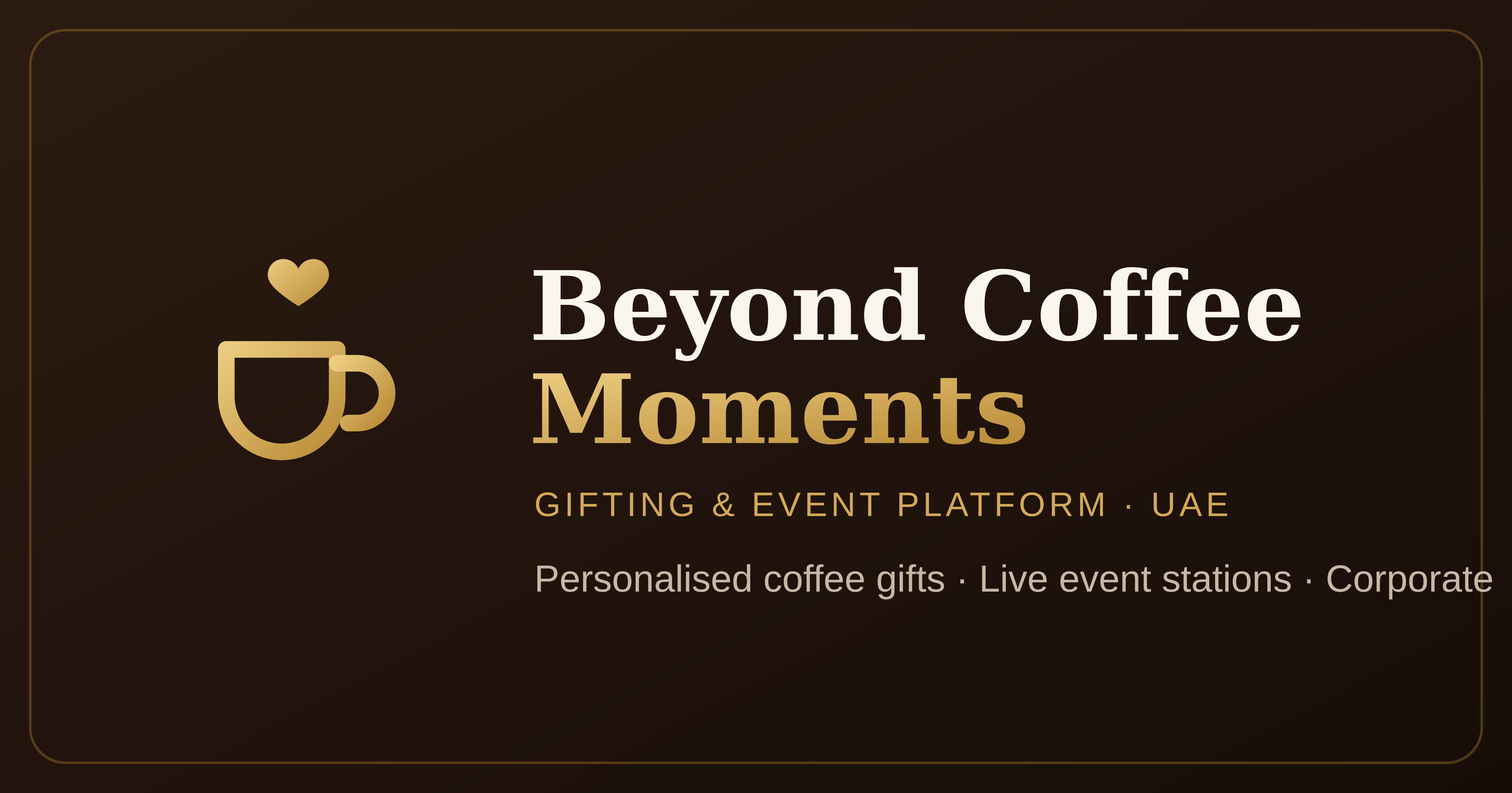
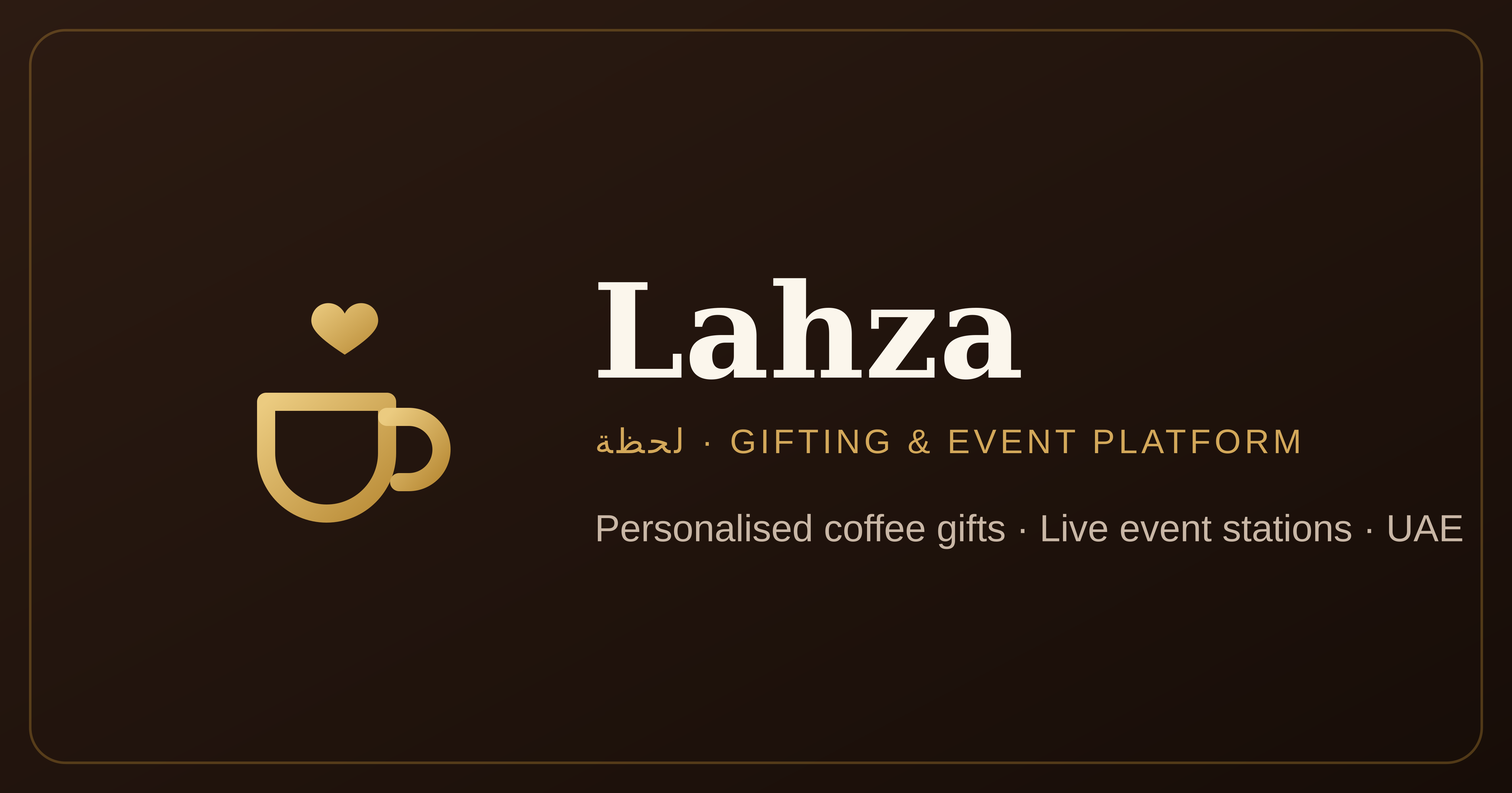
rebrand: Lahza (لحظة) + resilient customisation draft
Rename the storefront from "Beyond Coffee Moments" to a distinctive, ownable
brand — Lahza (لحظة, "a moment") — across UI, PWA manifest, icons/OG image,
SEO/AIO metadata, JSON-LD, sitemap/robots/llms.txt and docs. The legal entity
(Beyond Connect General Trading L.L.C) is unchanged. Arabic brand renders as
«لحظة».

Real-value improvement (no decoration): persist the in-progress customisation
to sessionStorage so an accidental refresh never wipes the customer's design.
Per-tab and ephemeral — the photo stays on-device, consistent with the privacy
stance in docs/THREAT_MODEL.md.

Isolated follow-up: branch restarted from the latest main (PR #18 already
merged), so this is a fresh, separate change with no branch overlap.

Verified: tsc --noEmit clean; vite build clean; built output carries the new
brand and none of the old one.

Claude-Session: https://claude.ai/code/session_017F7q4VrpryvpxMfgoKXwHo

diff --git a/src/i18n/ar.ts b/src/i18n/ar.ts
@@ -24,7 +24,7 @@ export const ar: Dict = {
   },
 
   common: {
-    brandName: "Beyond Coffee Moments",
+    brandName: "لحظة",
     brandSub: "منصّة الهدايا والفعاليات",
     back: "رجوع",
     backHome: "العودة للرئيسية",
@@ -49,7 +49,7 @@ export const ar: Dict = {
   },
 
   hero: {
-    badge: "Beyond Coffee Moments",
+    badge: "لحظة",
     titleA: "حوّل كل فنجان قهوة إلى",
     titleHighlight: "لحظة خاصة",
     subtitle:
@@ -387,9 +387,9 @@ export const ar: Dict = {
     privacy: {
       title: "سياسة الخصوصية",
       intro:
-        "توضّح هذه السياسة كيف تجمع Beyond Connect General Trading L.L.C (\"Beyond Coffee Moments\"، \"نحن\") بياناتك الشخصية وتستخدمها وتحميها وفق قانون حماية البيانات الشخصية الإماراتي (المرسوم بقانون اتحادي رقم ٤٥ لسنة ٢٠٢١).",
+        "توضّح هذه السياسة كيف تجمع Beyond Connect General Trading L.L.C (\"Lahza\"، \"نحن\") بياناتك الشخصية وتستخدمها وتحميها وفق قانون حماية البيانات الشخصية الإماراتي (المرسوم بقانون اتحادي رقم ٤٥ لسنة ٢٠٢١).",
       sections: [
-        { h: "من نحن", b: "Beyond Connect General Trading L.L.C، المرخّصة من دائرة الاقتصاد والسياحة بدبي، هي المتحكّم بالبيانات. تواصل معنا على care@beyondcoffeemoments.ae." },
+        { h: "من نحن", b: "Beyond Connect General Trading L.L.C، المرخّصة من دائرة الاقتصاد والسياحة بدبي، هي المتحكّم بالبيانات. تواصل معنا على care@lahza.ae." },
         { h: "ما الذي نجمعه", b: "بيانات التواصل والتوصيل ومعلومات الطلب والصور المرفوعة، وبيانات الشركة لعملاء الشركات. قد تُظهر الصور التي ترفعها أشخاصاً يمكن التعرّف عليهم." },
         { h: "كيف نستخدم بياناتك", b: "لتنفيذ طلبك وتوصيله، وتقديم الدعم، وإعداد عروض الأسعار والفواتير، والوفاء بالتزاماتنا القانونية والضريبية. نحن لا نبيع بياناتك." },
         { h: "الموافقة على الصور ومعالجتها", b: "نعالج الصور المرفوعة فقط لتنفيذ طلبك، بناءً على موافقتك الصريحة وتنفيذ العقد. وإذا استخدمنا الذكاء الاصطناعي لتحسين صورة أو مراجعتها، فهذه معالجة آلية لتجهيز منتجك، مع مراجعة بشرية لأي حالة حدّية." },
@@ -397,13 +397,13 @@ export const ar: Dict = {
         { h: "المشاركة", b: "نشارك البيانات فقط مع مزوّدي الخدمة اللازمين لتنفيذ طلبك، الاستضافة السحابية وشركاء الطباعة وشركات التوصيل، بموجب التزامات سرّية، ومع الجهات الرسمية عند الاقتضاء قانوناً." },
         { h: "النقل عبر الحدود", b: "عند معالجة البيانات خارج الإمارات، نطبّق ضمانات تعاقدية ونفضّل الاستضافة داخل المنطقة. وتُخزّن بيانات الفواتير داخل الإمارات." },
         { h: "الأطفال", b: "خدمتنا موجّهة للبالغين. وإذا تضمّنت الهدية صورة طفل، يقرّ الشخص البالغ الذي رفعها بأنه يملك السلطة الأبوية. ولا نعالج بيانات الأطفال لأغراض الإعلان عن علم." },
-        { h: "حقوقك", b: "يحق لك الوصول إلى بياناتك وتصحيحها وحذفها وتقييدها ونقلها والاعتراض على معالجتها. راسلنا على care@beyondcoffeemoments.ae وسنستجيب فوراً." },
+        { h: "حقوقك", b: "يحق لك الوصول إلى بياناتك وتصحيحها وحذفها وتقييدها ونقلها والاعتراض على معالجتها. راسلنا على care@lahza.ae وسنستجيب فوراً." },
       ],
     },
     terms: {
       title: "الشروط والأحكام",
       intro:
-        "تنظّم هذه الشروط استخدامك لـ Beyond Coffee Moments، التي تديرها Beyond Connect General Trading L.L.C، وشراءك لمنتجاتنا وخدماتنا في الإمارات.",
+        "تنظّم هذه الشروط استخدامك لـ Lahza، التي تديرها Beyond Connect General Trading L.L.C، وشراءك لمنتجاتنا وخدماتنا في الإمارات.",
       sections: [
         { h: "هوية البائع", b: "Beyond Connect General Trading L.L.C، مرخّصة من دائرة الاقتصاد والسياحة بدبي (يُعرض رقم الرخصة والرقم الضريبي عند الدفع وعلى الفواتير)." },
         { h: "الطلبات والأسعار", b: "تُعرض أسعار الأفراد شاملة ضريبة ٥٪ والتوصيل القياسي. ويظهر المبلغ الإجمالي قبل الدفع. وتُعرض أسعار الشركات والفعاليات بدون ضريبة، وتُضاف في الفاتورة الضريبية." },
@@ -502,7 +502,7 @@ export const ar: Dict = {
     iosStep1: "اضغط زر المشاركة",
     iosStep2: "اختر «أضف إلى الشاشة الرئيسية»",
     bannerTitle: "احصل على التطبيق",
-    bannerText: "ثبّت تطبيق Beyond Coffee Moments لتجربة أسرع وبملء الشاشة.",
+    bannerText: "ثبّت تطبيق Lahza لتجربة أسرع وبملء الشاشة.",
   },
 
   announce: {

diff --git a/index.html b/index.html
@@ -6,7 +6,7 @@
     <meta name="color-scheme" content="light" />
     <meta name="theme-color" content="#2A1B12" />
 
-    <title>Beyond Coffee Moments | Personalised Coffee Gifts & Event Stations in the UAE</title>
+    <title>Lahza | Personalised Coffee Gifts & Event Stations in the UAE</title>
     <meta
       name="description"
       content="Turn your memories into luxury personalised coffee gift boxes, live event coffee stations and corporate appreciation campaigns. Bilingual (English/Arabic), same-day Dubai, delivery across all Emirates."
@@ -14,7 +14,7 @@
     <meta name="keywords" content="personalised coffee gifts UAE, coffee gift box Dubai, latte art printing, event coffee station, corporate gifting UAE, selfie coffee, هدايا قهوة, ركن قهوة" />
     <meta name="author" content="Beyond Connect General Trading L.L.C" />
     <meta name="robots" content="index, follow, max-image-preview:large" />
-    <link rel="canonical" href="https://beyondcoffeemoments.ae/" />
+    <link rel="canonical" href="https://lahza.ae/" />
 
     <!-- Icons + PWA -->
     <link rel="icon" href="/logo.svg" type="image/svg+xml" />
@@ -24,8 +24,8 @@
     <meta name="mobile-web-app-capable" content="yes" />
     <meta name="apple-mobile-web-app-capable" content="yes" />
     <meta name="apple-mobile-web-app-status-bar-style" content="black-translucent" />
-    <meta name="apple-mobile-web-app-title" content="Beyond Coffee" />
-    <meta name="application-name" content="Beyond Coffee Moments" />
+    <meta name="apple-mobile-web-app-title" content="Lahza" />
+    <meta name="application-name" content="Lahza" />
 
     <!-- Fonts: preconnect + display=swap protects LCP/CLS -->
     <link rel="preconnect" href="https://fonts.googleapis.com" />
@@ -37,19 +37,19 @@
 
     <!-- Open Graph / social -->
     <meta property="og:type" content="website" />
-    <meta property="og:site_name" content="Beyond Coffee Moments" />
-    <meta property="og:title" content="Beyond Coffee Moments | Personalised Coffee Gifts & Event Stations" />
+    <meta property="og:site_name" content="Lahza" />
+    <meta property="og:title" content="Lahza | Personalised Coffee Gifts & Event Stations" />
     <meta property="og:description" content="Luxury personalised coffee gifts, live event coffee stations and corporate campaigns. Delivered across the UAE." />
-    <meta property="og:url" content="https://beyondcoffeemoments.ae/" />
-    <meta property="og:image" content="https://beyondcoffeemoments.ae/og-image.png" />
+    <meta property="og:url" content="https://lahza.ae/" />
+    <meta property="og:image" content="https://lahza.ae/og-image.png" />
     <meta property="og:image:width" content="1200" />
     <meta property="og:image:height" content="630" />
     <meta property="og:locale" content="en_AE" />
     <meta property="og:locale:alternate" content="ar_AE" />
     <meta name="twitter:card" content="summary_large_image" />
-    <meta name="twitter:title" content="Beyond Coffee Moments | Personalised Coffee Gifts & Events · UAE" />
+    <meta name="twitter:title" content="Lahza | Personalised Coffee Gifts & Events · UAE" />
     <meta name="twitter:description" content="Luxury personalised coffee gifts, live event coffee stations and corporate campaigns across the UAE." />
-    <meta name="twitter:image" content="https://beyondcoffeemoments.ae/og-image.png" />
+    <meta name="twitter:image" content="https://lahza.ae/og-image.png" />
 
     <!-- Structured data (SEO + AI answer engines) -->
     <script type="application/ld+json">
@@ -58,32 +58,32 @@
       "@graph": [
         {
           "@type": "Organization",
-          "@id": "https://beyondcoffeemoments.ae/#org",
-          "name": "Beyond Coffee Moments",
+          "@id": "https://lahza.ae/#org",
+          "name": "Lahza",
           "legalName": "Beyond Connect General Trading L.L.C",
-          "url": "https://beyondcoffeemoments.ae/",
-          "logo": "https://beyondcoffeemoments.ae/icons/icon-512.png",
-          "email": "hello@beyondcoffeemoments.ae",
+          "url": "https://lahza.ae/",
+          "logo": "https://lahza.ae/icons/icon-512.png",
+          "email": "hello@lahza.ae",
           "areaServed": "AE",
-          "sameAs": ["https://instagram.com/beyondcoffeemoments"]
+          "sameAs": ["https://instagram.com/lahzacoffee"]
         },
         {
           "@type": "LocalBusiness",
-          "@id": "https://beyondcoffeemoments.ae/#business",
-          "name": "Beyond Coffee Moments",
-          "image": "https://beyondcoffeemoments.ae/og-image.png",
+          "@id": "https://lahza.ae/#business",
+          "name": "Lahza",
+          "image": "https://lahza.ae/og-image.png",
           "priceRange": "AED 89-7500",
           "address": { "@type": "PostalAddress", "addressLocality": "Dubai", "addressCountry": "AE" },
           "areaServed": ["Dubai", "Abu Dhabi", "Sharjah", "Ajman", "Ras Al Khaimah", "Fujairah", "Umm Al Quwain"],
-          "parentOrganization": { "@id": "https://beyondcoffeemoments.ae/#org" }
+          "parentOrganization": { "@id": "https://lahza.ae/#org" }
         },
         {
           "@type": "WebSite",
-          "@id": "https://beyondcoffeemoments.ae/#website",
-          "url": "https://beyondcoffeemoments.ae/",
-          "name": "Beyond Coffee Moments",
+          "@id": "https://lahza.ae/#website",
+          "url": "https://lahza.ae/",
+          "name": "Lahza",
           "inLanguage": ["en", "ar"],
-          "publisher": { "@id": "https://beyondcoffeemoments.ae/#org" }
+          "publisher": { "@id": "https://lahza.ae/#org" }
         }
       ]
     }

diff --git a/src/i18n/en.ts b/src/i18n/en.ts
@@ -22,7 +22,7 @@ export const en = {
   },
 
   common: {
-    brandName: "Beyond Coffee Moments",
+    brandName: "Lahza",
     brandSub: "Gifting & Event Platform",
     back: "Back",
     backHome: "Back to Home",
@@ -47,7 +47,7 @@ export const en = {
   },
 
   hero: {
-    badge: "Beyond Coffee Moments",
+    badge: "Lahza",
     titleA: "Turn Every Coffee into a",
     titleHighlight: "Personal Moment",
     subtitle:
@@ -385,9 +385,9 @@ export const en = {
     privacy: {
       title: "Privacy Policy",
       intro:
-        "This policy explains how Beyond Connect General Trading L.L.C (\"Beyond Coffee Moments\", \"we\") collects, uses and protects your personal data under the UAE Personal Data Protection Law (Federal Decree-Law No. 45 of 2021).",
+        "This policy explains how Beyond Connect General Trading L.L.C (\"Lahza\", \"we\") collects, uses and protects your personal data under the UAE Personal Data Protection Law (Federal Decree-Law No. 45 of 2021).",
       sections: [
-        { h: "Who we are", b: "Beyond Connect General Trading L.L.C, licensed by the Dubai Department of Economy & Tourism, is the data controller. Contact us at care@beyondcoffeemoments.ae." },
+        { h: "Who we are", b: "Beyond Connect General Trading L.L.C, licensed by the Dubai Department of Economy & Tourism, is the data controller. Contact us at care@lahza.ae." },
         { h: "What we collect", b: "Contact details, delivery details, order information, uploaded photos and (for corporate clients) company details. Photos you upload may show identifiable people." },
         { h: "How we use your data", b: "To produce and deliver your order, provide customer support, prepare quotations and invoices, and meet our legal and tax obligations. We do not sell your data." },
         { h: "Photo consent & processing", b: "We process uploaded photos only to fulfil your order, on the basis of your explicit consent and contract performance. If we use AI to enhance or moderate an image, this is automated processing to prepare your product; a human reviews any borderline case." },
@@ -395,13 +395,13 @@ export const en = {
         { h: "Sharing", b: "We share data only with processors needed to deliver your order, our cloud host, print partners and couriers, under confidentiality obligations, and with authorities where legally required." },
         { h: "Cross-border transfers", b: "Where data is processed outside the UAE, we apply contractual safeguards and prefer in-region hosting. Invoice data is stored within the UAE." },
         { h: "Children", b: "Our service is intended for adults. If a gift involves a child's photo, the uploading adult confirms they hold parental authority. We do not knowingly process children's data for advertising." },
-        { h: "Your rights", b: "You may access, correct, delete, restrict, port or object to the processing of your data. Email care@beyondcoffeemoments.ae and we will respond promptly." },
+        { h: "Your rights", b: "You may access, correct, delete, restrict, port or object to the processing of your data. Email care@lahza.ae and we will respond promptly." },
       ],
     },
     terms: {
       title: "Terms & Conditions",
       intro:
-        "These terms govern your use of Beyond Coffee Moments, operated by Beyond Connect General Trading L.L.C, and your purchase of our products and services in the UAE.",
+        "These terms govern your use of Lahza, operated by Beyond Connect General Trading L.L.C, and your purchase of our products and services in the UAE.",
       sections: [
         { h: "Seller identity", b: "Beyond Connect General Trading L.L.C, licensed by the Dubai Department of Economy & Tourism (licence & TRN displayed at checkout and on invoices)." },
         { h: "Orders & pricing", b: "Consumer prices are displayed inclusive of 5% VAT and standard delivery. The total payable is shown before you pay. Corporate and event prices are quoted excluding VAT, which is added on the tax invoice." },
@@ -500,7 +500,7 @@ export const en = {
     iosStep1: "Tap the Share button",
     iosStep2: "Choose “Add to Home Screen”",
     bannerTitle: "Get the app",
-    bannerText: "Install Beyond Coffee Moments for a faster, full-screen experience.",
+    bannerText: "Install Lahza for a faster, full-screen experience.",
   },
 
   announce: {

diff --git a/src/lib/ai.ts b/src/lib/ai.ts
@@ -97,9 +97,9 @@ export interface ProposalInput {
 export function generateCorporateProposal(input: ProposalInput, lang: Lang): string {
   const pkg = recommendEventPackage(input.guests);
   if (lang === "ar") {
-    return `يسعد Beyond Coffee Moments تقديم تجربة قهوة راقية لـ ${input.company} بمناسبة ${input.eventType} في ${input.location} بتاريخ ${input.date}. لعدد ${input.guests} ضيفاً، نوصي بباقة "${pkg.name.ar}" التي تشمل طباعة قهوة سيلفي مباشرة وأكواباً تحمل هويتكم وفريق باريستا محترف. نلتزم بتجربة سلسة تعزّز حضور علامتكم وتترك انطباعاً لا يُنسى لدى ضيوفكم.`;
+    return `يسعد Lahza تقديم تجربة قهوة راقية لـ ${input.company} بمناسبة ${input.eventType} في ${input.location} بتاريخ ${input.date}. لعدد ${input.guests} ضيفاً، نوصي بباقة "${pkg.name.ar}" التي تشمل طباعة قهوة سيلفي مباشرة وأكواباً تحمل هويتكم وفريق باريستا محترف. نلتزم بتجربة سلسة تعزّز حضور علامتكم وتترك انطباعاً لا يُنسى لدى ضيوفكم.`;
   }
-  return `Beyond Coffee Moments is delighted to propose a premium coffee experience for ${input.company} at your ${input.eventType} in ${input.location} on ${input.date}. For ${input.guests} guests, we recommend the "${pkg.name.en}" package: live selfie-coffee printing, branded cups and a professional barista team. We commit to a seamless activation that elevates your brand presence and leaves a memorable impression on every guest.`;
+  return `Lahza is delighted to propose a premium coffee experience for ${input.company} at your ${input.eventType} in ${input.location} on ${input.date}. For ${input.guests} guests, we recommend the "${pkg.name.en}" package: live selfie-coffee printing, branded cups and a professional barista team. We commit to a seamless activation that elevates your brand presence and leaves a memorable impression on every guest.`;
 }
 
 // ---- 5. Image cleanup + auto-crop (client-side; swappable) ----------------

diff --git a/src/pages/Customize.tsx b/src/pages/Customize.tsx
@@ -1,4 +1,4 @@
-import { useMemo, useState } from "react";
+import { useEffect, useMemo, useState } from "react";
 import { Link } from "react-router-dom";
 import { ArrowLeft, ArrowRight, CheckCircle2, PartyPopper, MessageCircle } from "lucide-react";
 import { useI18n } from "@/i18n/I18nContext";
@@ -13,13 +13,43 @@ import {
 
 type Result = { ref: string; mode: "now" | "link" } | null;
 
+// Ephemeral draft persistence: keeps the in-progress design across an accidental
+// refresh so the customer never re-does their work. sessionStorage is per-tab
+// and cleared when the tab closes — the photo stays on-device, matching our
+// privacy stance (see docs/THREAT_MODEL.md).
+const DRAFT_KEY = "lahza.customize.draft";
+function loadDraft(): OrderDraft {
+  try {
+    const raw = typeof sessionStorage !== "undefined" && sessionStorage.getItem(DRAFT_KEY);
+    if (raw) return { ...INITIAL_DRAFT, ...(JSON.parse(raw) as Partial<OrderDraft>), imageOriginal: null };
+  } catch {
+    /* private mode / quota / bad JSON — fall back to a fresh draft */
+  }
+  return INITIAL_DRAFT;
+}
+
 export default function Customize() {
   const { t, isRtl } = useI18n();
   const [step, setStep] = useState(0);
-  const [draft, setDraft] = useState<OrderDraft>(INITIAL_DRAFT);
+  const [draft, setDraft] = useState<OrderDraft>(loadDraft);
   const [error, setError] = useState<string | null>(null);
   const [checking, setChecking] = useState(false);
   const [result, setResult] = useState<Result>(null);
+
+  // Save on every edit; clear once the order is placed.
+  useEffect(() => {
+    try {
+      if (result) {
+        sessionStorage.removeItem(DRAFT_KEY);
+        return;
+      }
+      const { imageOriginal: _drop, ...persist } = draft;
+      void _drop;
+      sessionStorage.setItem(DRAFT_KEY, JSON.stringify(persist));
+    } catch {
+      /* storage unavailable — persistence is best-effort */
+    }
+  }, [draft, result]);
 
   const update = (patch: Partial<OrderDraft>) => setDraft((d) => ({ ...d, ...patch }));
 

diff --git a/src/lib/brand.ts b/src/lib/brand.ts
@@ -5,7 +5,7 @@
  * before going to production (see UAE compliance report).
  */
 export const BRAND = {
-  name: "Beyond Coffee Moments",
+  name: "Lahza",
   tagline: "Gifting & Event Platform",
 
   // ---- Seller identity (UAE E-Commerce Law disclosure) -------------------
@@ -17,11 +17,11 @@ export const BRAND = {
   vatRate: 0.05, // 5% standard-rated
 
   // ---- Contact -----------------------------------------------------------
-  email: "hello@beyondcoffeemoments.ae",
-  supportEmail: "care@beyondcoffeemoments.ae",
+  email: "hello@lahza.ae",
+  supportEmail: "care@lahza.ae",
   phone: "+971 4 000 0000",
   whatsapp: "971500000000", // digits only, international format for wa.me
-  instagram: "beyondcoffeemoments",
+  instagram: "lahzacoffee",
 
   // ---- Data / privacy ----------------------------------------------------
   photoRetentionDays: 30, // uploaded source images auto-deleted after this

diff --git a/src/lib/whatsapp.ts b/src/lib/whatsapp.ts
@@ -11,8 +11,8 @@ export function waLink(message?: string): string {
 
 export const WA_MESSAGES = {
   corporate: {
-    en: "Hello Beyond Coffee Moments I'd like to discuss a corporate appreciation campaign / event coffee station.",
-    ar: "مرحباً Beyond Coffee Moments أرغب في مناقشة حملة تقدير للموظفين / ركن قهوة تفاعلي لمناسبتنا.",
+    en: "Hello Lahza I'd like to discuss a corporate appreciation campaign / event coffee station.",
+    ar: "مرحباً Lahza أرغب في مناقشة حملة تقدير للموظفين / ركن قهوة تفاعلي لمناسبتنا.",
   },
   support: {
     en: "Hello I have a question about a personalised coffee gift order.",

diff --git a/src/components/Seo.tsx b/src/components/Seo.tsx
@@ -2,7 +2,7 @@ import { useEffect } from "react";
 import { useLocation } from "react-router-dom";
 import { useI18n } from "@/i18n/I18nContext";
 
-const ORIGIN = "https://beyondcoffeemoments.ae";
+const ORIGIN = "https://lahza.ae";
 
 function upsertMeta(attr: "name" | "property", key: string, content: string) {
   let tag = document.head.querySelector(`meta[${attr}="${key}"]`);
@@ -31,7 +31,7 @@ export function Seo({
   const { pathname } = useLocation();
 
   useEffect(() => {
-    const full = `${title} · Beyond Coffee Moments`;
+    const full = `${title} · Lahza`;
     const url = `${ORIGIN}${pathname === "/" ? "" : pathname}`;
     document.title = full;
 

diff --git a/vite.config.ts b/vite.config.ts
@@ -2,7 +2,7 @@ import { defineConfig } from "vite";
 import react from "@vitejs/plugin-react";
 import { fileURLToPath, URL } from "node:url";
 
-// Beyond Coffee Moments — front-end SPA build config.
+// Lahza — front-end SPA build config.
 // Manual chunking keeps the initial bundle small (router split from vendor)
 // to protect the LCP / INP performance targets.
 export default defineConfig({

diff --git a/tailwind.config.ts b/tailwind.config.ts
@@ -1,7 +1,7 @@
 import type { Config } from "tailwindcss";
 
 /**
- * Beyond Coffee Moments — refreshed premium identity.
+ * Lahza — refreshed premium identity.
  * Warm ivory canvas · rich espresso brown · brass-gold accent · a whisper of
  * majlis green. Logical properties (ps/pe/ms/me) everywhere so the layout
  * mirrors cleanly in Arabic RTL.

diff --git a/src/index.css b/src/index.css
@@ -3,7 +3,7 @@
 @tailwind utilities;
 
 /* ============================================================
-   Beyond Coffee Moments — design system (refreshed)
+   Lahza — design system (refreshed)
    Ivory canvas · espresso brown · brass gold · majlis green
    ============================================================ */
 

diff --git a/src/pages/Pricing.tsx b/src/pages/Pricing.tsx
@@ -18,7 +18,7 @@ export default function Pricing() {
       item: {
         "@type": "Product",
         name: `${p.name.en} · personalised coffee gift`,
-        brand: "Beyond Coffee Moments",
+        brand: "Lahza",
         offers: {
           "@type": "Offer",
           price: p.price,
